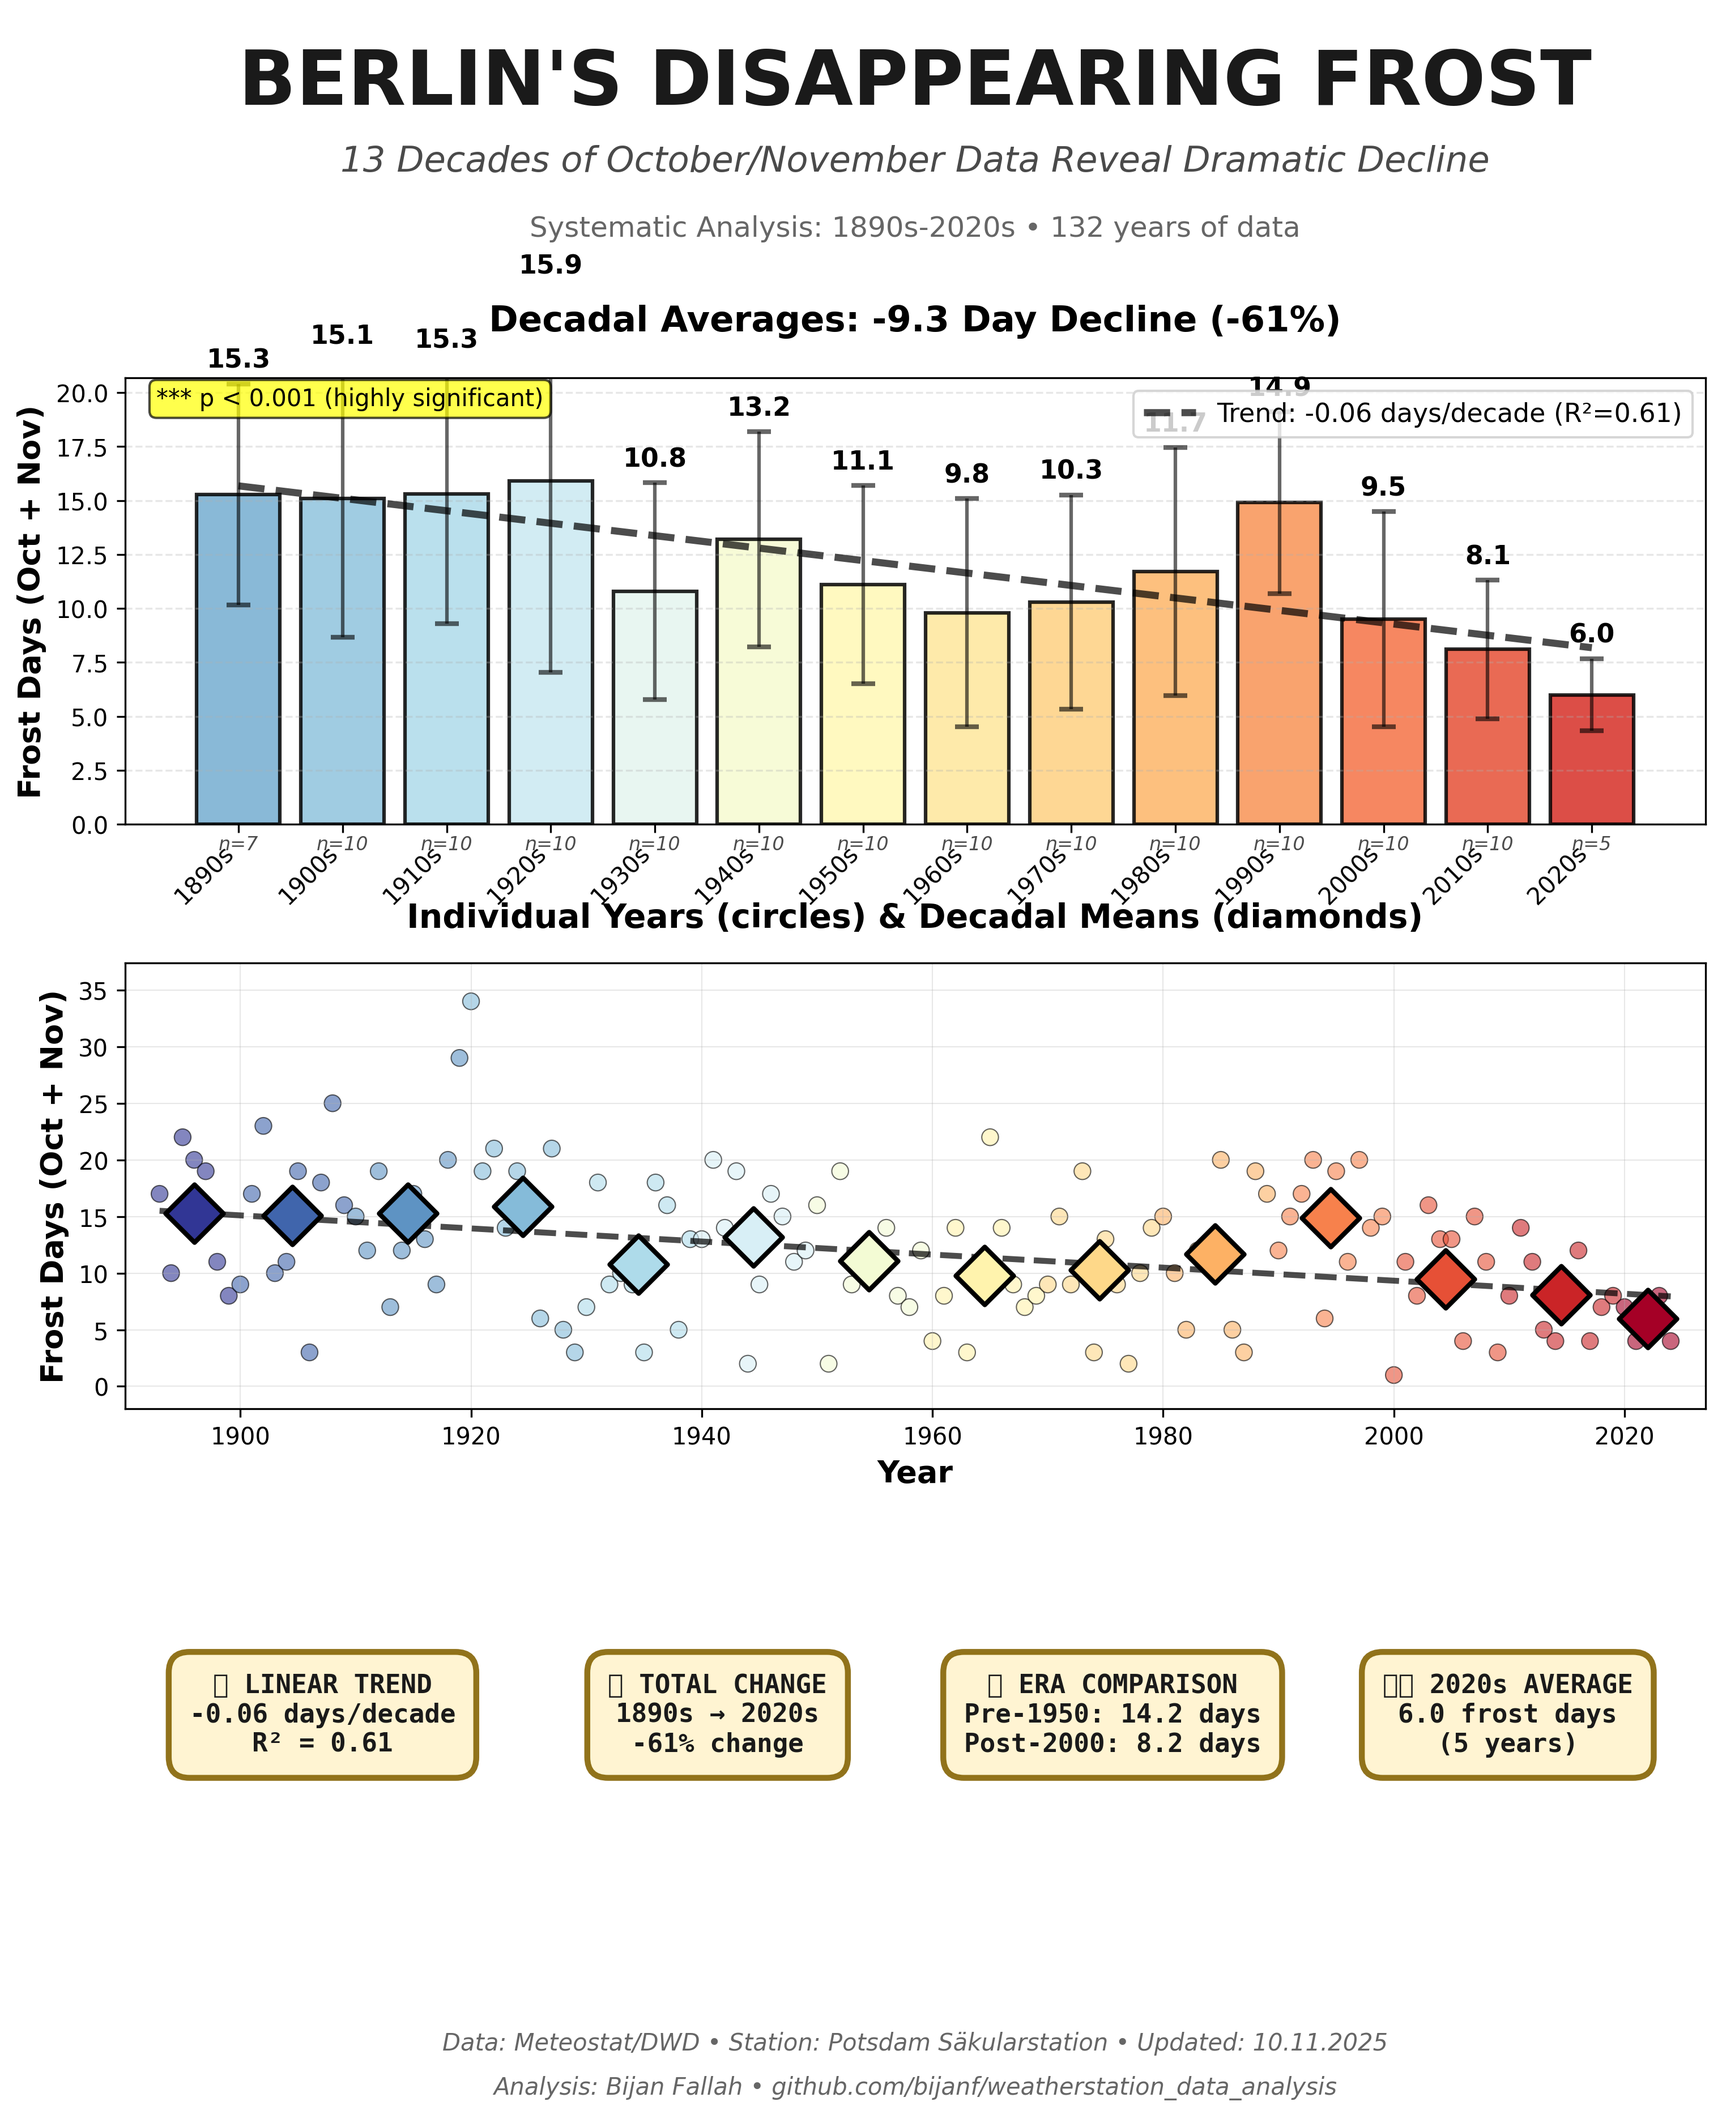
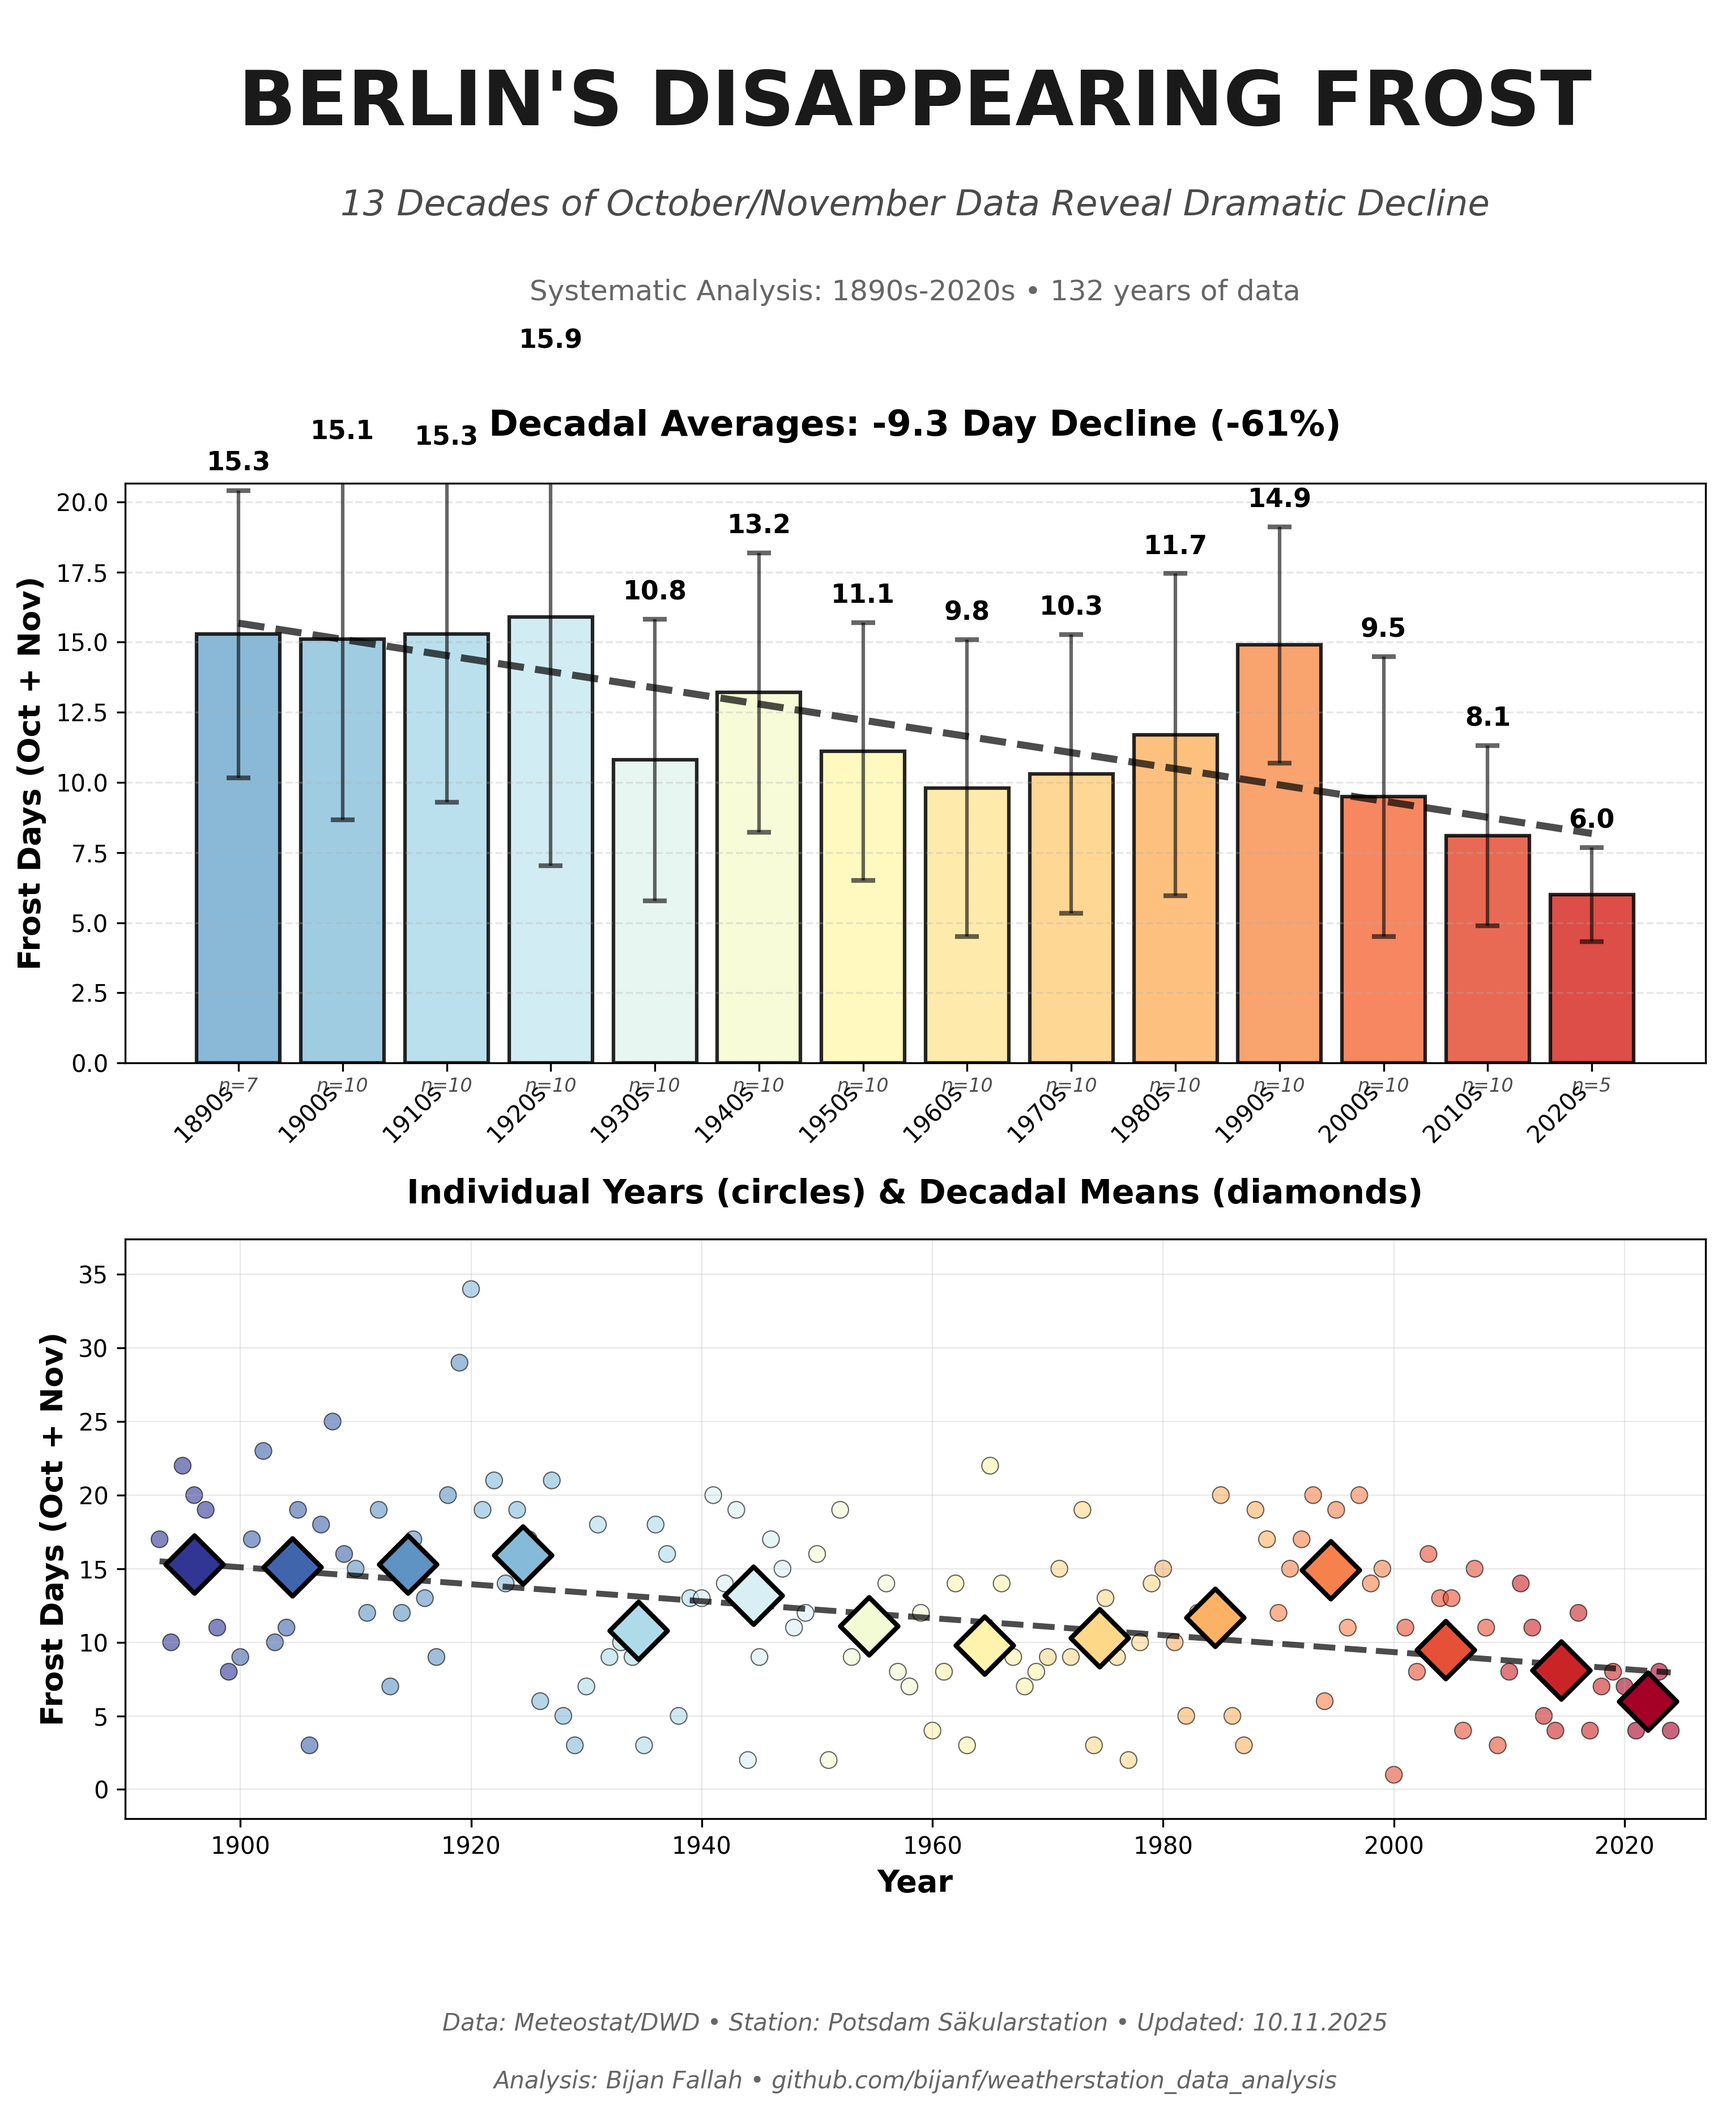
Clean up infographic: remove legend boxes and statistical annotations
- Remove callout boxes from bottom panel for cleaner look
- Remove significance marker (p-value box) from bar chart
- Remove trend legend from first panel
- Simplified from 5 panels to 4 panels
- Focus on visual impact rather than statistical details
- Keep attribution at bottom with author and repository

Visualization now emphasizes the dramatic visual trend without
cluttering the graphic with statistical annotations.

🤖 Generated with [Claude Code](https://claude.com/claude-code)

diff --git a/berlin_autumn_decadal_analysis.py b/berlin_autumn_decadal_analysis.py
@@ -278,7 +278,7 @@ def create_decadal_infographic(decadal_stats, trend_stats, era_comparison,
 
     # Create the figure
     fig = plt.figure(figsize=(12, 16), facecolor='white')
-    gs = GridSpec(5, 1, height_ratios=[1, 2, 2, 1.5, 0.4], hspace=0.45)
+    gs = GridSpec(4, 1, height_ratios=[1, 2, 2, 0.4], hspace=0.45)
 
     # ============ PANEL 1: HEADLINE ============
     ax_title = fig.add_subplot(gs[0])
@@ -327,31 +327,15 @@ def create_decadal_infographic(decadal_stats, trend_stats, era_comparison,
 
     # Add trend line
     trend_line = [trend_stats['intercept'] + trend_stats['slope'] * d for d in decades]
-    ax_bars.plot(x, trend_line, 'k--', linewidth=3, alpha=0.7,
-                label=f"Trend: {trend_stats['slope']:.2f} days/decade (R²={trend_stats['r_squared']:.2f})")
+    ax_bars.plot(x, trend_line, 'k--', linewidth=3, alpha=0.7)
 
     ax_bars.set_ylabel('Frost Days (Oct + Nov)', fontsize=13, fontweight='bold')
     ax_bars.set_title(f'Decadal Averages: {trend_stats["absolute_change"]:.1f} Day Decline ({trend_stats["percent_change"]:+.0f}%)',
                      fontsize=15, fontweight='bold', pad=20)
     ax_bars.set_xticks(x)
     ax_bars.set_xticklabels([f"{d}s" for d in decades], rotation=45, ha='right', fontsize=10)
-    ax_bars.legend(loc='upper right', fontsize=11, frameon=True, fancybox=True)
     ax_bars.grid(axis='y', alpha=0.3, linestyle='--')
     ax_bars.set_ylim(0, max(means) * 1.3)
-
-    # Add significance marker
-    if trend_stats['p_value'] < 0.001:
-        sig_text = '*** p < 0.001 (highly significant)'
-    elif trend_stats['p_value'] < 0.01:
-        sig_text = '** p < 0.01 (very significant)'
-    elif trend_stats['p_value'] < 0.05:
-        sig_text = '* p < 0.05 (significant)'
-    else:
-        sig_text = 'not statistically significant'
-
-    ax_bars.text(0.02, 0.98, sig_text, transform=ax_bars.transAxes,
-                fontsize=10, va='top', ha='left',
-                bbox=dict(boxstyle='round', facecolor='yellow', alpha=0.7))
 
     # ============ PANEL 3: INDIVIDUAL YEARS SCATTER ============
     ax_scatter = fig.add_subplot(gs[2])
@@ -389,36 +373,8 @@ def create_decadal_infographic(decadal_stats, trend_stats, era_comparison,
     ax_scatter.set_xlim(1890, 2027)
     ax_scatter.set_ylim(-2, max(values) * 1.1)
 
-    # ============ PANEL 4: KEY STATISTICS ============
-    ax_stats = fig.add_subplot(gs[3])
-    ax_stats.axis('off')
-
-    box_props = dict(boxstyle='round,pad=0.8', facecolor='#fff3cd', edgecolor='#856404', linewidth=2.5, alpha=0.9)
-
-    # Callout 1: Trend
-    callout1 = f"📉 LINEAR TREND\n{trend_stats['slope']:.2f} days/decade\nR² = {trend_stats['r_squared']:.2f}"
-
-    # Callout 2: Total change
-    callout2 = f"📊 TOTAL CHANGE\n{trend_stats['first_decade']}s → {trend_stats['last_decade']}s\n{trend_stats['percent_change']:+.0f}% change"
-
-    # Callout 3: Era comparison
-    callout3 = f"🔄 ERA COMPARISON\nPre-1950: {era_comparison['early_mean']:.1f} days\nPost-2000: {era_comparison['recent_mean']:.1f} days"
-
-    # Callout 4: Most recent decade
-    recent_decade = decades[-1]
-    recent_mean = decadal_stats[recent_decade]['mean']
-    callout4 = f"🌡 {recent_decade}s AVERAGE\n{recent_mean:.1f} frost days\n({decadal_stats[recent_decade]['n_years']} years)"
-
-    callouts = [callout1, callout2, callout3, callout4]
-    positions = [(0.125, 0.5), (0.375, 0.5), (0.625, 0.5), (0.875, 0.5)]
-
-    for (x, y), text in zip(positions, callouts):
-        ax_stats.text(x, y, text,
-                     ha='center', va='center', fontsize=11, fontweight='bold',
-                     bbox=box_props, family='monospace', color='#1a1a1a')
-
-    # ============ PANEL 5: ATTRIBUTION ============
-    ax_attr = fig.add_subplot(gs[4])
+    # ============ PANEL 4: ATTRIBUTION ============
+    ax_attr = fig.add_subplot(gs[3])
     ax_attr.axis('off')
 
     # Line 1: Data source
